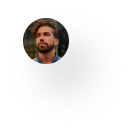
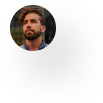
Finished projects section

Changed region(s): [[0.0874, 0.0291, 0.5534, 0.4951]]

diff --git a/index.html b/index.html
@@ -106,7 +106,9 @@
         </div>
       </div>
     </section>
+
     <div class="br"><div class="container"></div></div>
+
     <section id="projects">
       <div class="projects-container">
         <div class="heading-parag">
@@ -132,7 +134,7 @@
                     </h3>
                     <div class="author">
                       <div class="avatar">
-                        <img src="./static/images/avatar-2.png" alt="" />
+                        <img src="./static/images/avatar-1.png" alt="" />
                       </div>
                       <div class="name-job">
                         <div class="name"><h2>Angel Armstrong</h2></div>
@@ -144,9 +146,118 @@
               </div>
             </div>
           </div>
-          <div class="text-container"></div>
+          <div class="text-container">
+            <h1>The wall new Balenciaga.com</h1>
+            <p>
+              This article is floated online with an aim to help you find the
+              best dvd printing solution.
+            </p>
+            <p> </p>
+            <p>
+              Dvd printing is an important feature used by large and small DVD
+              production houses to print information on DVDs.
+            </p>
+            <a href="#">
+              <div class="triangle"></div>
+              <p>See Case Study</p>
+            </a>
+          </div>
+        </div>
+
+        <div class="project-item right">
+          <div class="text-container">
+            <h1>Is this the future of 3D model?</h1>
+            <p>
+              While it was just a TV show, that little speech at the beginning
+              of the original Star Trek show really did do a good job of
+              capturing our feelings about space.
+            </p>
+            <p> </p>
+            <p>
+              It is those feelings that drive our love of astronomy and our
+              desire to learn more and more about it.
+            </p>
+            <a href="#">
+              <div class="triangle"></div>
+              <p>See Case Study</p>
+            </a>
+          </div>
+          <div class="concept">
+            <div class="concept-photo">
+              <img src="./static/images/back-2.png" alt="" />
+              <div class="concept-description">
+                <div class="card">
+                  <div class="card-container">
+                    <h3>
+                      “I know they are going to be honest with me. I am not
+                      going to get a subpar product; I know it is going to be
+                      good. That is the number one advantage of working with
+                      Exhibit Systems.
+                    </h3>
+                    <div class="author">
+                      <div class="avatar">
+                        <img src="./static/images/avatar-1.png" alt="" />
+                      </div>
+                      <div class="name-job">
+                        <div class="name"><h2>Lina Hart</h2></div>
+                        <div class="job"><p>Founder & CEO, Jico</p></div>
+                      </div>
+                    </div>
+                  </div>
+                </div>
+              </div>
+            </div>
+          </div>
+        </div>
+
+        <div class="project-item">
+          <div class="concept">
+            <div class="concept-photo">
+              <img src="./static/images/back-3.png" alt="" />
+              <div class="concept-description">
+                <div class="card">
+                  <div class="card-container">
+                    <h3>
+                      “Exhibit Systems is not a provider. They are not a
+                      supplier. They are a partner with expertise in making
+                      trade shows effective.”
+                    </h3>
+                    <div class="author">
+                      <div class="avatar">
+                        <img src="./static/images/avatar-1.png" alt="" />
+                      </div>
+                      <div class="name-job">
+                        <div class="name"><h2>Eunice Oliver</h2></div>
+                        <div class="job"><p>Founder & CEO, Zeem</p></div>
+                      </div>
+                    </div>
+                  </div>
+                </div>
+              </div>
+            </div>
+          </div>
+          <div class="text-container">
+            <h1>Is this the future of Online Booking</h1>
+            <p>
+              You should be able to find several indispensable facts about
+              motivation in the following paragraphs.
+            </p>
+            <p> </p>
+            <p>
+              If there’s at least one fact you didn’t know before, imagine the
+              difference it might make.
+            </p>
+            <a href="#">
+              <div class="triangle"></div>
+              <p>See Case Study</p>
+            </a>
+          </div>
         </div>
       </div>
     </section>
+
+    <div class="br"><div class="container"></div></div>
+
+    <section id="proposal"></section>
   </body>
 </html>

diff --git a/static/css/main.css b/static/css/main.css
@@ -310,26 +310,69 @@ header .nav-top li a:hover {
   color: rgba(33, 56, 66, 0.6); }
 
 .project-item {
-  width: 100%; }
+  width: 100%;
+  display: flex;
+  padding-bottom: 300px; }
+
+.project-item.right {
+  justify-content: flex-end; }
 
 .concept-photo {
-  width: 50%;
+  width: 90%;
   position: relative; }
+
+.project-item.right .concept-photo {
+  float: right; }
 
 .concept-description {
   position: absolute;
-  bottom: 0;
-  right: 0; }
+  bottom: -90px;
+  right: -70px; }
+
+.project-item.right .concept-description {
+  bottom: -90px;
+  left: -70px; }
 
 #projects .card {
   float: right;
   width: 60%;
-  background: white; }
+  background: white;
+  border-radius: 8px; }
+
+#projects .project-item.right .card {
+  float: left; }
 
 #projects .card img {
-  width: 140px; }
+  width: 125px; }
 
 #projects .card-container {
-  height: auto; }
+  height: auto;
+  padding: 30px 30px 0 30px;
+  border-radius: 8px; }
+
+#projects .card-container h3 {
+  font-size: 16px; }
+
+#projects .author {
+  justify-content: flex-start; }
+
+#projects .name-job {
+  top: 23px; }
+
+#projects .name h2 {
+  font-size: 16px; }
+
+#projects .job p {
+  font-size: 14px; }
+
+#projects .text-container {
+  width: 25%;
+  margin: 0 150px; }
+
+#projects .text-container p {
+  color: rgba(33, 56, 66, 0.6); }
+
+#projects .text-container a {
+  margin-top: 50px; }
 
 /*# sourceMappingURL=main.css.map */

diff --git a/static/sass/main.scss b/static/sass/main.scss
@@ -368,29 +368,84 @@ header .nav-top li a:hover {
 
 .project-item {
   width: 100%;
+  display: flex;
+  padding-bottom: 300px;
+}
+
+.project-item.right {
+  justify-content: flex-end;
 }
 
 .concept-photo {
-  width: 50%;
+  width: 90%;
   position: relative;
+}
+
+.project-item.right .concept-photo {
+  float: right;
 }
 
 .concept-description {
   position: absolute;
-  bottom: 0;
-  right: 0;
+  bottom: -90px;
+  right: -70px;
+}
+
+.project-item.right .concept-description {
+  bottom: -90px;
+  left: -70px;
 }
 
 #projects .card {
   float: right;
   width: 60%;
   background: white;
+  border-radius: 8px;
+}
+
+#projects .project-item.right .card {
+  float: left;
 }
 
 #projects .card img {
-  width: 140px;
+  width: 125px;
 }
 
 #projects .card-container {
   height: auto;
+  padding: 30px 30px 0 30px;
+  border-radius: 8px;
+}
+
+#projects .card-container h3 {
+  font-size: 16px;
+}
+
+#projects .author {
+  justify-content: flex-start;
+}
+
+#projects .name-job {
+  top: 23px;
+}
+
+#projects .name h2 {
+  font-size: 16px;
+}
+
+#projects .job p {
+  font-size: 14px;
+}
+
+#projects .text-container {
+  width: 25%;
+  margin: 0 150px;
+}
+
+#projects .text-container p {
+  color: rgba(33, 56, 66, 0.6);
+}
+
+#projects .text-container a {
+  margin-top: 50px;
 }
